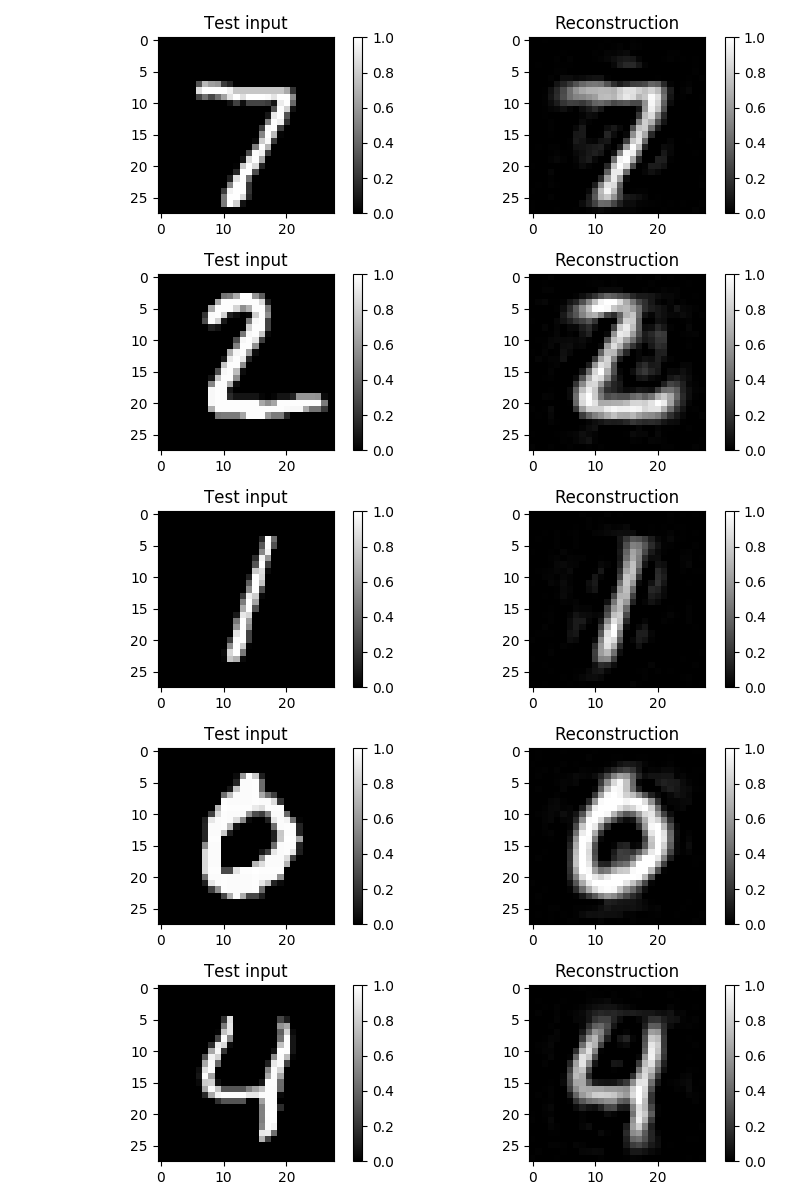
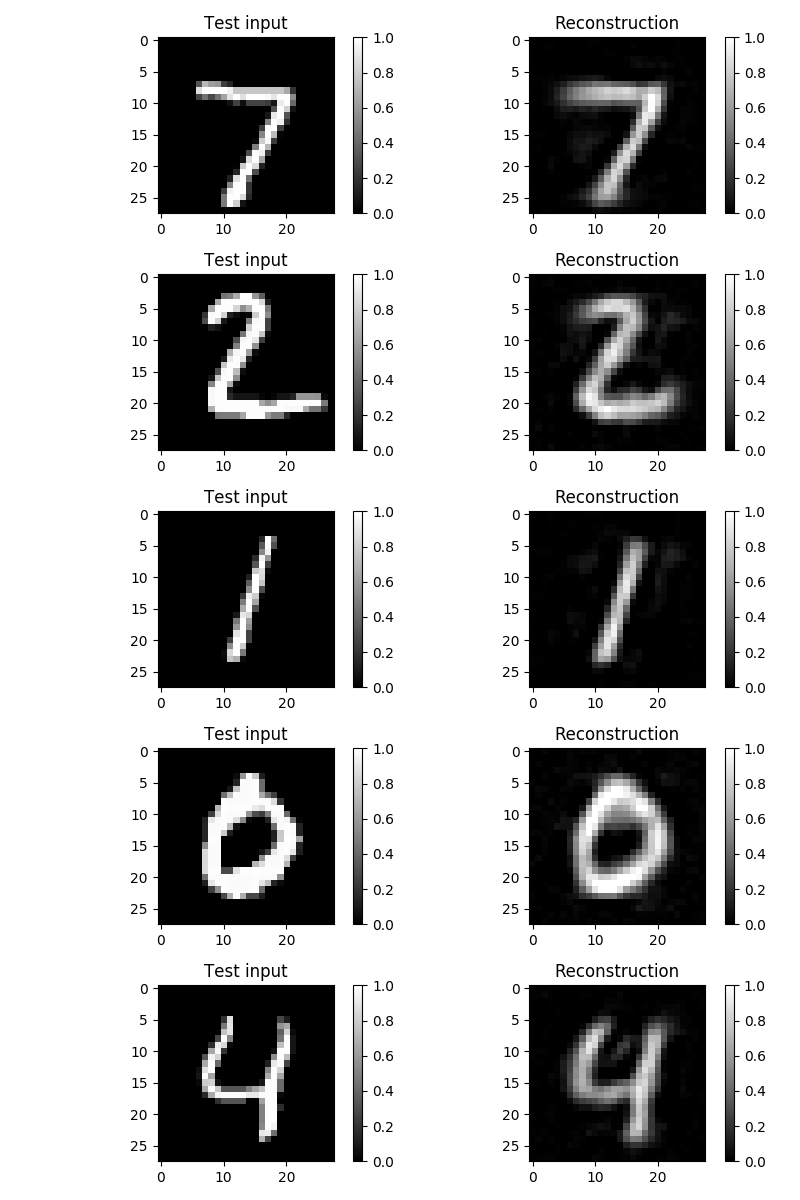
split loss to labeled and unlabeled

diff --git a/vae.py b/vae.py
@@ -145,28 +145,41 @@ def generator_network():
     return x_hat
 
 
-def train_neural_network(num_iterations):
+def train_neural_network(num_iterations, loss_function, input_data):
+    optimizer = tf.train.AdamOptimizer().minimize(loss_function)
     session.run(tf.global_variables_initializer())
     # Ensure we update the global variable rather than a local copy.
     total_iterations = 0
 
-    # Start-time used for printing time-usage below.
     start_time = time.time()
+    x_images = input_data[0]
+    y_labels = input_data[1]
+    num_images = x_images.shape[0]
+    i = 0
 
-    for step in range(num_iterations):
+    for epoch in range(num_iterations):
+        if i == num_images:
+            i = 0
+        # The ending index for the next batch is denoted j.
+        j = min(i + FLAGS['train_batch_size'], num_images)
 
-        total_iterations += 1
+        # Get the images from the test-set between index i and j.
+        x_batch = x_images[i:j, :]
 
-        x_batch, y_true_batch = data.train.next_batch(FLAGS['train_batch_size'])
+        # Get the associated labels.
+        y_true_batch = y_labels[i:j, :]
+
         feed_dict_train = {x: x_batch, y_true: y_true_batch}
+        summary, batch_loss, _ = session.run([merged, loss_function, optimizer], feed_dict=feed_dict_train)
+        # Set the start-index for the next batch to the
+        # end-index of the current batch.
+        train_writer.add_summary(summary, batch_loss)
+        i = j
 
-        summary, cur_loss, _ = session.run([merged, loss, optimizer], feed_dict=feed_dict_train)
-        train_writer.add_summary(summary, step)
-
-        if total_iterations % 100 == 0:
+        if epoch % 100 == 0:
             # Save all variables of the TensorFlow graph to file.
             saver.save(sess=session, save_path=FLAGS['save_path'])
-            print("Optimization Iteration: {}, Training Loss: {}".format(step + 1, cur_loss))
+            print("Optimization Iteration: {}, Training Loss: {}".format(epoch + 1, batch_loss))
 
     # Ending time.
     end_time = time.time()
@@ -313,11 +326,6 @@ if __name__ == '__main__':
     np.random.seed(FLAGS['seed'])
     data = input_data.read_data_sets(FLAGS['data_directory'], one_hot=True)
 
-    # create labeled/unlabeled split in training set
-    n_labeled = 10000
-    x_l, y_l, x_u, y_u = create_semisupervised(n_labeled)
-    print("x_l:{}, y_l:{}, x_u:{}, y_{}".format(x_l.shape, y_l.shape, x_u.shape, y_u.shape))
-
     encoder_h_dim = 500
     decoder_h_dim = 500
     latent_dim = 50
@@ -347,11 +355,13 @@ if __name__ == '__main__':
 
     reconstruction_loss = tf.reduce_sum(tf.squared_difference(x_hat, x), reduction_indices=1)
 
-    loss = tf.reduce_mean(
+    labeled_loss = tf.reduce_mean(
         recognition_loss + reconstruction_loss + alpha * FLAGS['train_batch_size'] * cross_entropy_loss)
-    tf.summary.scalar('loss', loss)
+    tf.summary.scalar('labeled_loss', labeled_loss)
 
-    optimizer = tf.train.AdamOptimizer().minimize(loss)
+    unlabeled = tf.reduce_mean(
+        recognition_loss + reconstruction_loss)
+    tf.summary.scalar('unlabeled_loss', unlabeled)
 
     session = tf.Session()
 
@@ -362,9 +372,19 @@ if __name__ == '__main__':
     # Counter for total number of iterations performed so far.
     total_iterations = 0
 
+    # create labeled/unlabeled split in training set
+    n_labeled = 10000
+    x_l, y_l, x_u, y_u = create_semisupervised(n_labeled)
+    print("x_l:{}, y_l:{}, x_u:{}, y_{}".format(x_l.shape, y_l.shape, x_u.shape, y_u.shape))
+
     ## SAVER
     saver = tf.train.Saver()
-    train_neural_network(FLAGS['num_iterations'])
+    # train labeled
+    print("labeled training:")
+    train_neural_network(FLAGS['num_iterations'], labeled_loss, [x_l, y_l])
+    print("unlabeled training:")
+    train_neural_network(FLAGS['num_iterations'], unlabeled, [x_u, y_u])
+    # train unlabeled
     test_reconstruction()
     print_test_accuracy()
 

diff --git a/MNSIT_prepocess.py b/MNSIT_prepocess.py
@@ -27,7 +27,6 @@ def load_numpy_split(n_train=50000):
         result_y = [0] * num_classes
         for i in range(num_classes):
             idx_i = np.where(y_cls == i)[0]
-            print("y_cls:{}, class:{}, index_data:{}".format(y_cls, i, idx_i))
             result_x[i] = x[idx_i]
             result_y[i] = y[idx_i]
         return result_x, result_y
@@ -54,9 +53,7 @@ def create_semisupervised(n_labeled):
     y_unlabeled = [0] * n_classes
     for i in range(n_classes):
         idx = np.arange(x[i].shape[0])
-        print("idx:{}".format(idx))
         np.random.shuffle(idx)
-        print("idx shuffled:{}".format(idx))
         label_idx = idx[:n_labels_per_class]
         unlabeled_idx = idx[n_labels_per_class:]
 
